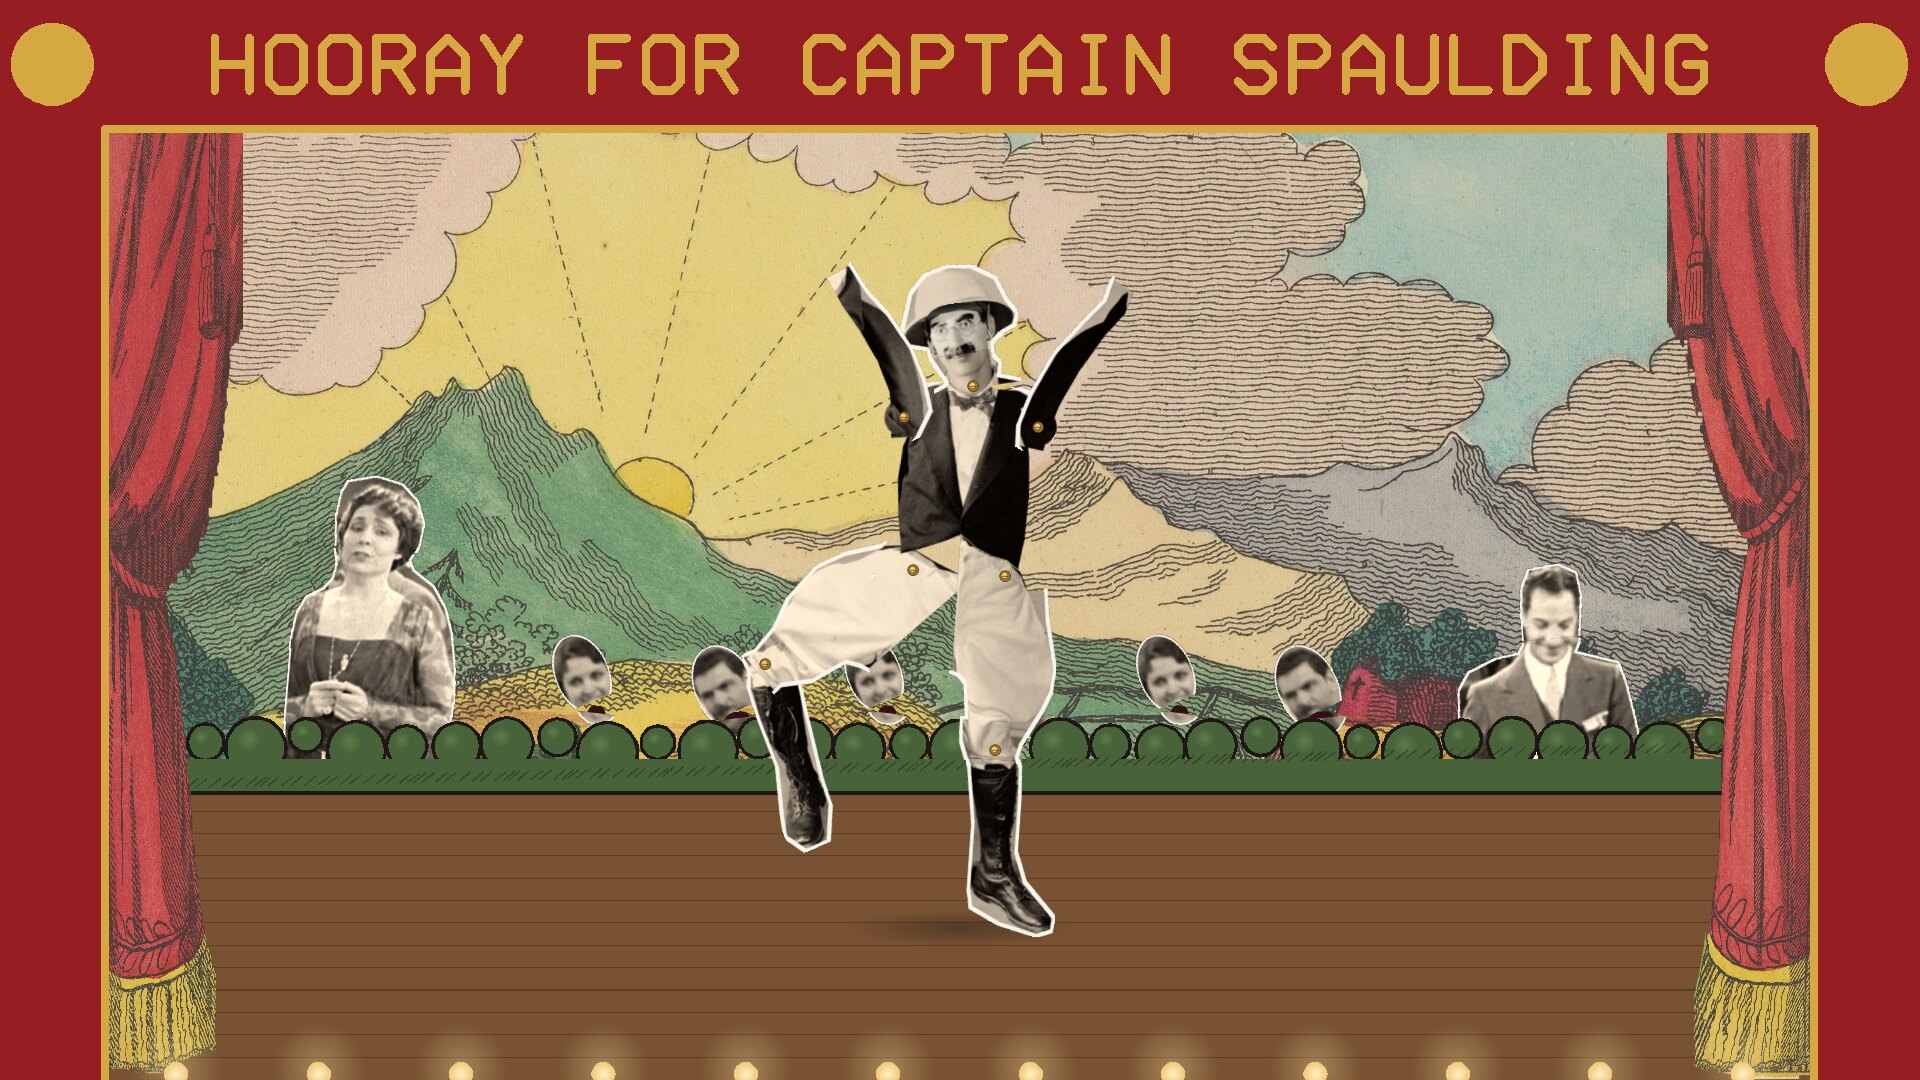
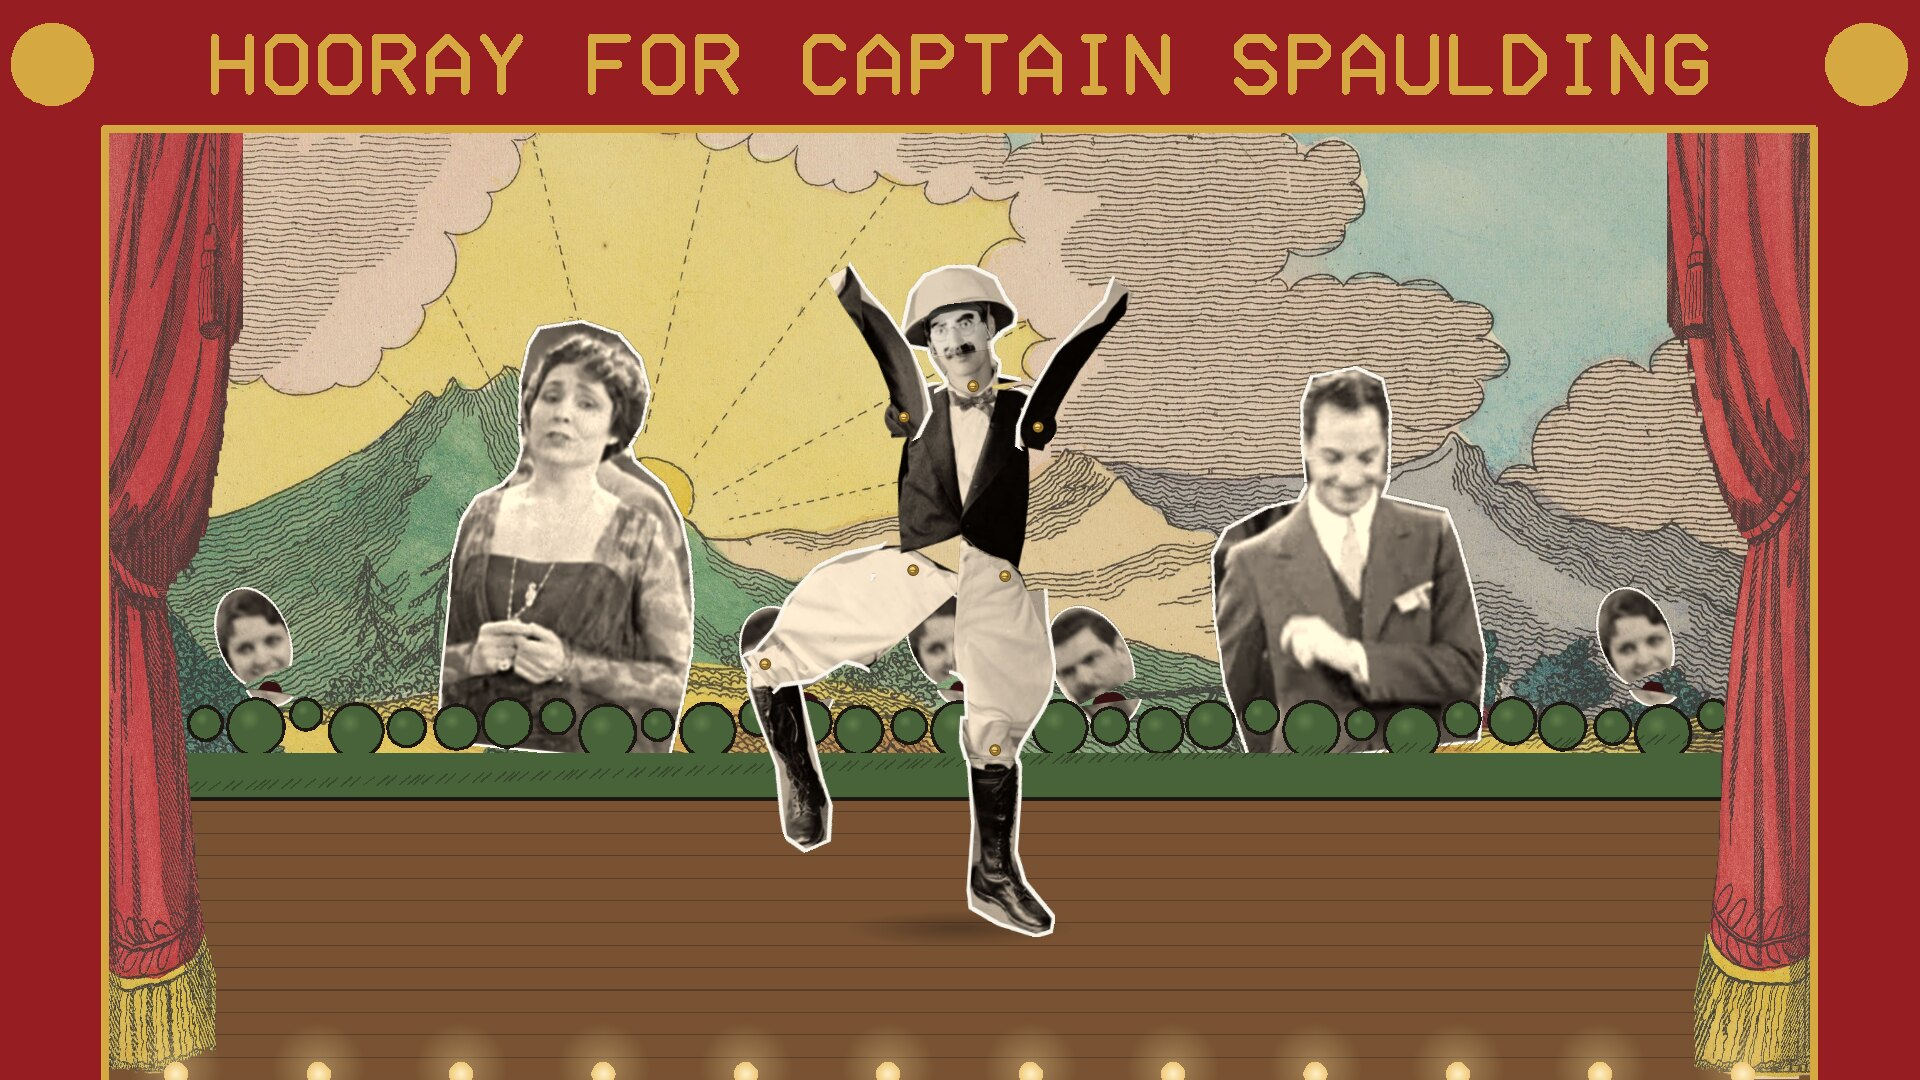
The cast right behind Groucho, nearly his size

diff --git a/src/spaulding.c b/src/spaulding.c
@@ -809,7 +809,7 @@ static void hedge(int w, double top, double bottom)
     int n = 34;
     for (int pass = 0; pass < 3; pass++) {
         for (int i = 0; i <= n; i++) {
-            double x = side_w + (w - 2 * side_w) * i / (double)n, r = (bottom - top) * (0.32 + 0.1 * sin(i * 2.7));
+            double x = side_w + (w - 2 * side_w) * i / (double)n, r = (bottom - top) * (0.22 + 0.07 * sin(i * 2.7));
             double y = top + r * 0.9 + (bottom - top) * 0.06 * sin(i * 1.3);
             if (pass == 0) disc(x, y, r + unit * 0.25, col(INK, 1), col(INK, 1));
             else if (pass == 1) disc(x, y, r, col(LEAF, 1), col(LEAF, 1));
@@ -833,18 +833,20 @@ static void cast(int w, int h, double t)
     int b = beat_at(t, &ph);
     double s = snap(ph), side = (b & 1) ? 1 : -1;
     double lean = side * (2 * s - 1);                  /* -1..1, a snap to the other side on every beat */
-    double top = h * 0.672, bottom = h * 0.735, head = h * 0.068;
+    /* right behind him, nearly his size: the hedge only hides them below the waist */
+    double top = h * 0.655, bottom = h * 0.74, head = h * 0.1;
     double v = voice(t);
     double chorus = -30 * v * singing(t, CHORUS_SINGS, sizeof CHORUS_SINGS / sizeof *CHORUS_SINGS);
     /* the chorus line, heads over the hedge, every other one bobbing the other way */
-    for (int i = 0; i < 6; i++) {
-        double x = w * (0.31 + 0.076 * i), alt = i & 1 ? -1 : 1;
+    static const double CX[] = {0.14, 0.42, 0.5, 0.58, 0.86};
+    for (int i = 0; i < 5; i++) {
+        double alt = i & 1 ? -1 : 1;
         int who = i & 1 ? C_MAN : C_WOMAN;
-        cast_member(who, x, top + h * 0.012 - h * 0.012 * (1 + lean * alt) / 2, head * 0.95, 7 * lean * alt, chorus * (0.8 + 0.2 * alt));
+        cast_member(who, w * CX[i], top + h * 0.02 - h * 0.02 * (1 + lean * alt) / 2, head * 0.85, 8 * lean * alt, chorus * (0.8 + 0.2 * alt));
     }
-    cast_member(C_DUMONT, w * 0.19, bottom - h * 0.02, head, 5 * lean,
+    cast_member(C_DUMONT, w * 0.29, bottom - h * 0.04, head, 6 * lean,
                 -26 * v * singing(t, DUMONT_SINGS, 1));
-    cast_member(C_ZEPPO, w * 0.81, bottom - h * 0.02, head, -5 * lean,
+    cast_member(C_ZEPPO, w * 0.71, bottom - h * 0.04, head, -6 * lean,
                 -30 * v * singing(t, ZEPPO_SINGS, sizeof ZEPPO_SINGS / sizeof *ZEPPO_SINGS));
     flush(ren);
     hedge(w, top, bottom);

diff --git a/tools/make_cast.py b/tools/make_cast.py
@@ -24,7 +24,7 @@ CAST = [
                          (1320, 600), (1040, 600), (1035, 520), (1035, 440), (1033, 380), (1040, 330), (1055, 300),
                          (1085, 282), (1100, 262), (1105, 235), (1098, 200), (1094, 150), (1100, 105)], 205, 1100, 72),
     ("zeppo", "317.5", [(720, 250), (770, 245), (800, 262), (805, 300), (800, 340), (795, 380), (785, 400), (800, 405),
-                        (860, 425), (870, 460), (880, 520), (890, 600), (585, 600), (575, 520), (580, 450), (600, 420),
+                        (860, 425), (870, 460), (880, 520), (888, 600), (870, 700), (600, 700), (578, 600), (575, 520), (580, 450), (600, 420),
                         (650, 400), (690, 395), (700, 380), (700, 330), (705, 280)], 374, 705, 245),
     ("woman", "475", (995, 252, 1125, 448), 426, 1000, 252),
     ("man", "475", (1222, 158, 1380, 392), 346, 1228, 158),

diff --git a/README.md b/README.md
@@ -12,7 +12,7 @@ dancing to the song from the film. Runs on Linux, Windows and macOS. One of the
 The curtains open on a painted sunrise and he is let down on to the stage on a
 string. He marks time while the chorus sings "Hooray for Captain Spaulding", and
 through "Hello, I must be going" keeps setting off for the wings and coming back.
-Behind a hedge at the back of the stage, Margaret Dumont, Zeppo and a chorus line
+Right behind him, over a low hedge, Margaret Dumont, Zeppo and a chorus line
 of heads, cut from frames of the film, sway on the beat and flap their heads on
 their own lines, as a South Park chorus would. Then he does his dance as he does it in the film, move for move: the hat thrown up,
 the knock-kneed shuffle, high kicks, a crouch, the hat waved overhead, a kicking
@@ -30,7 +30,7 @@ music the whole way. Then a bow, the curtains close, and it begins again.
 | ![](docs/screenshots/04-the-swivel.jpg) | ![](docs/screenshots/05-the-lope.jpg) |
 | The swivel | The lope |
 | ![](docs/screenshots/07-the-chorus.jpg) | ![](docs/screenshots/06-the-bow.jpg) |
-| The chorus behind the hedge | The bow |
+| Dumont, Zeppo and the chorus | The bow |
 
 ## Where it all comes from
 
